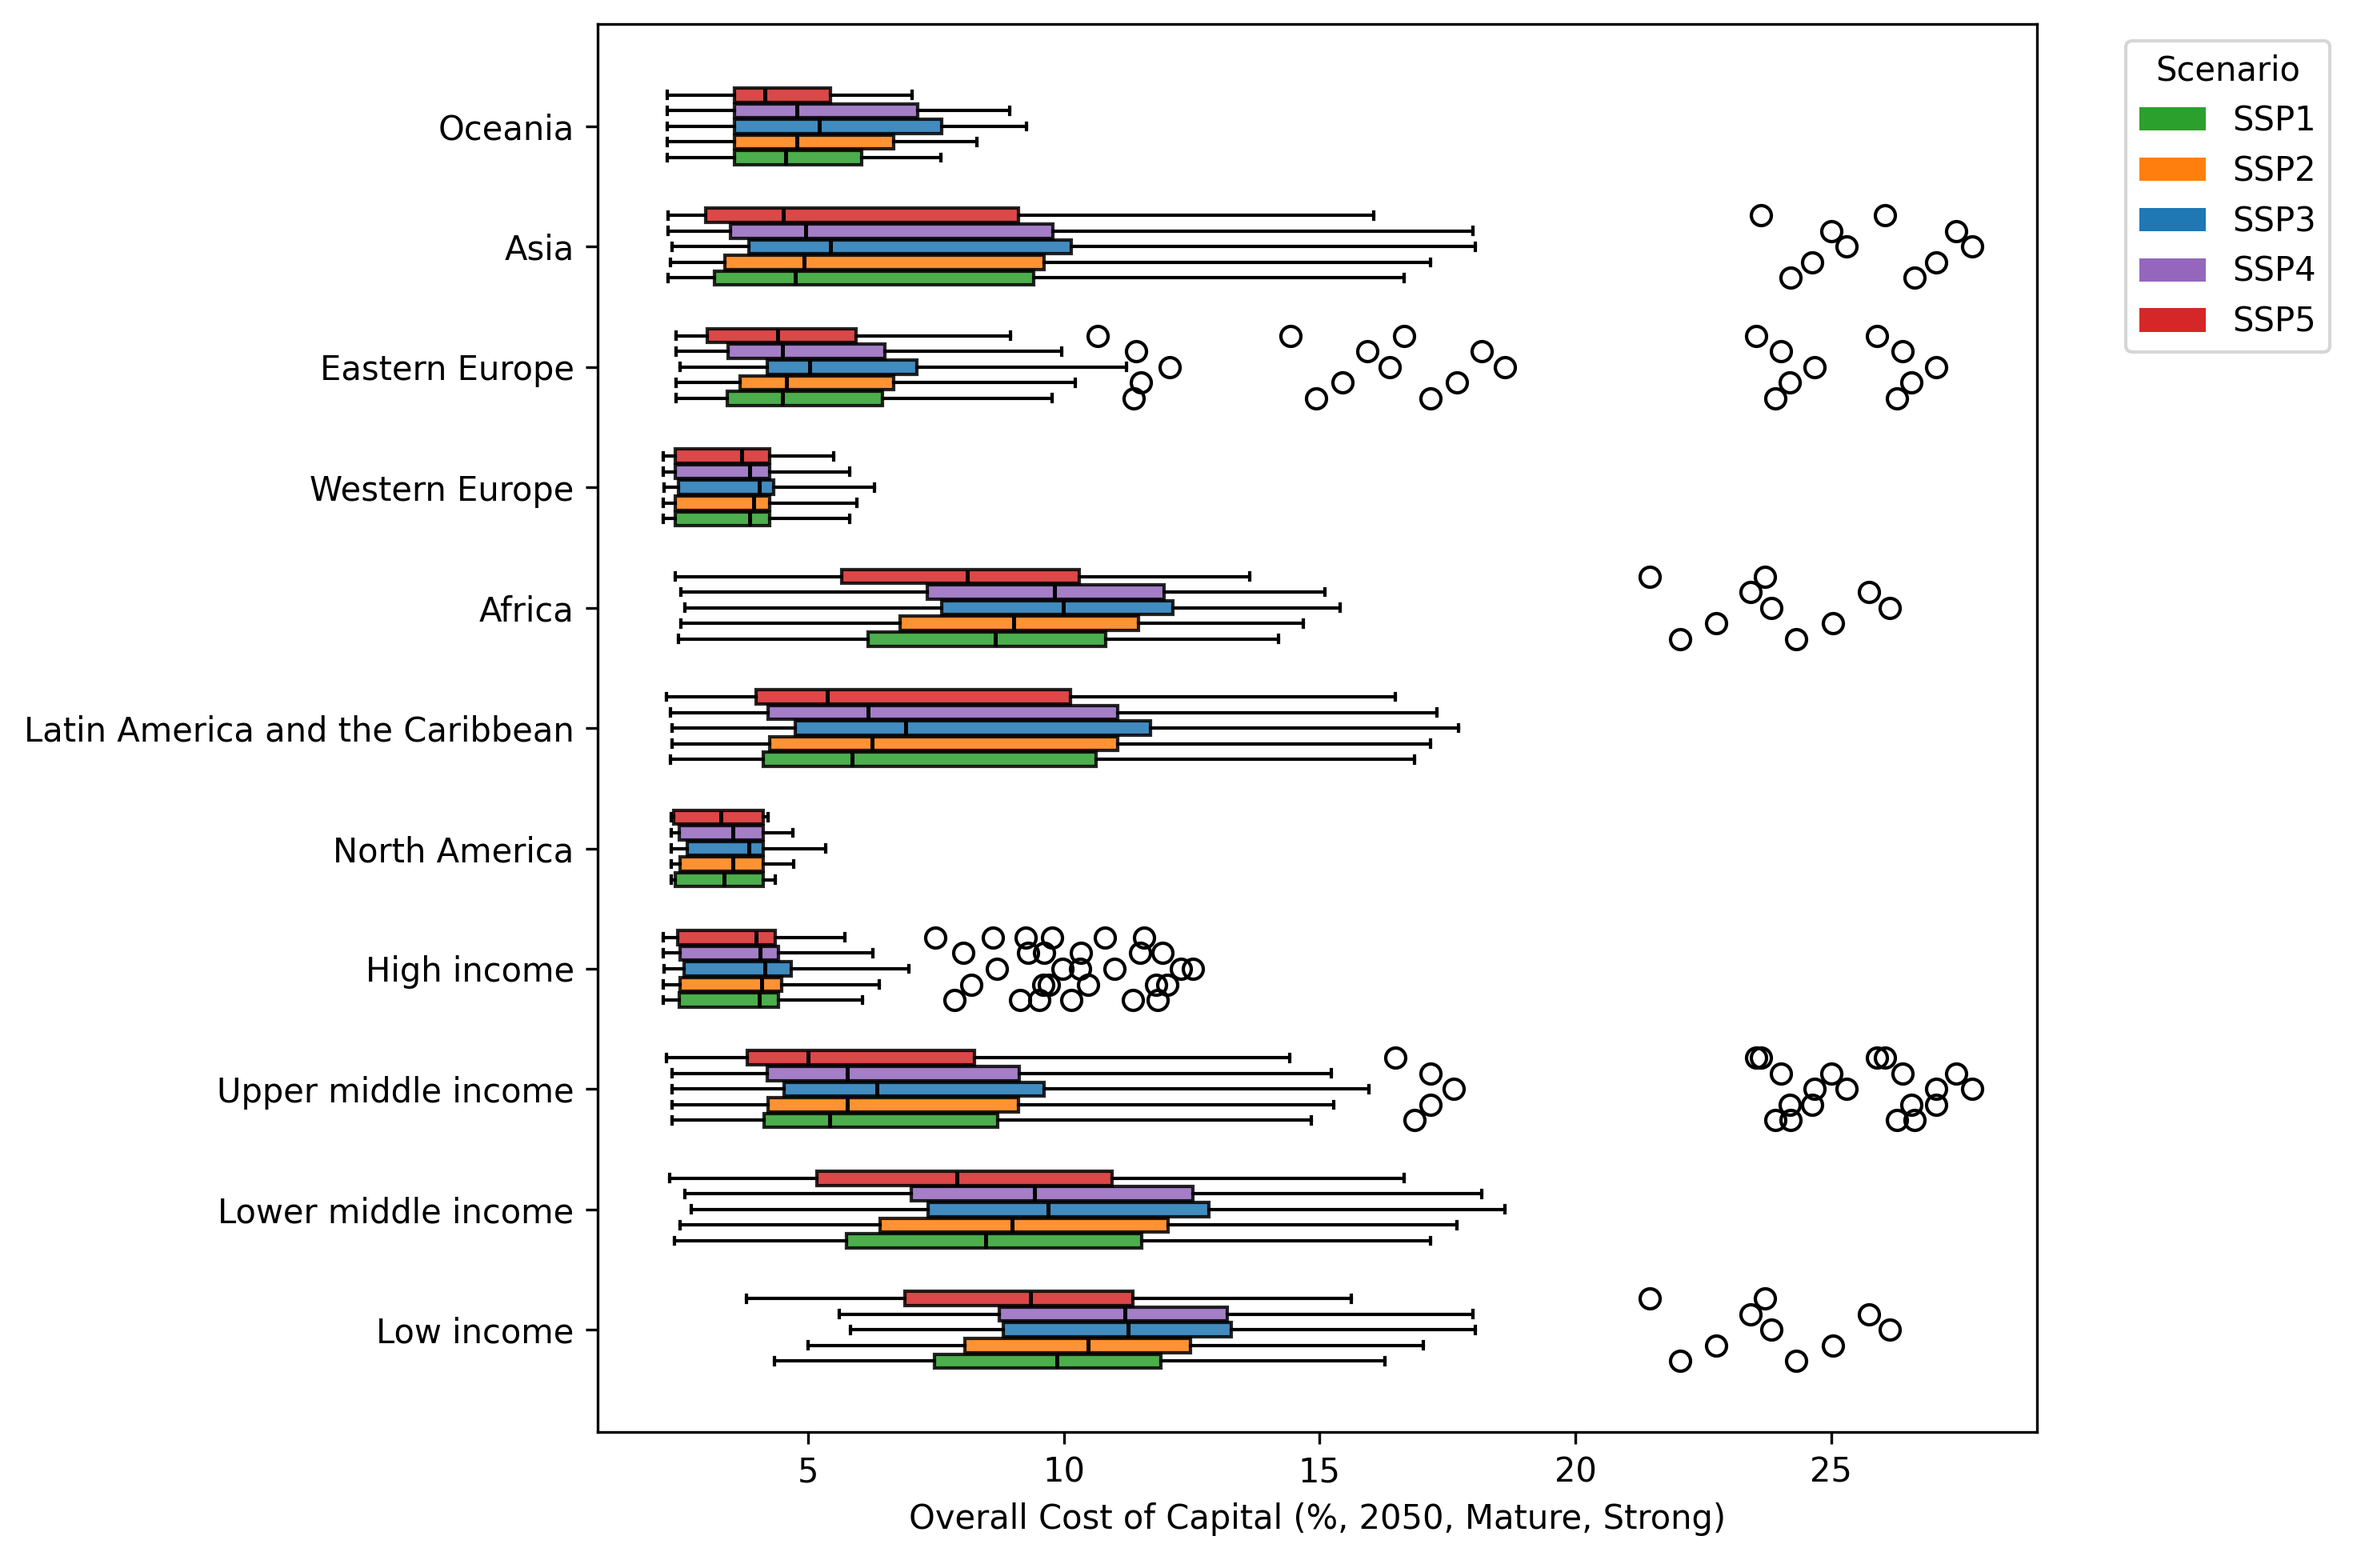
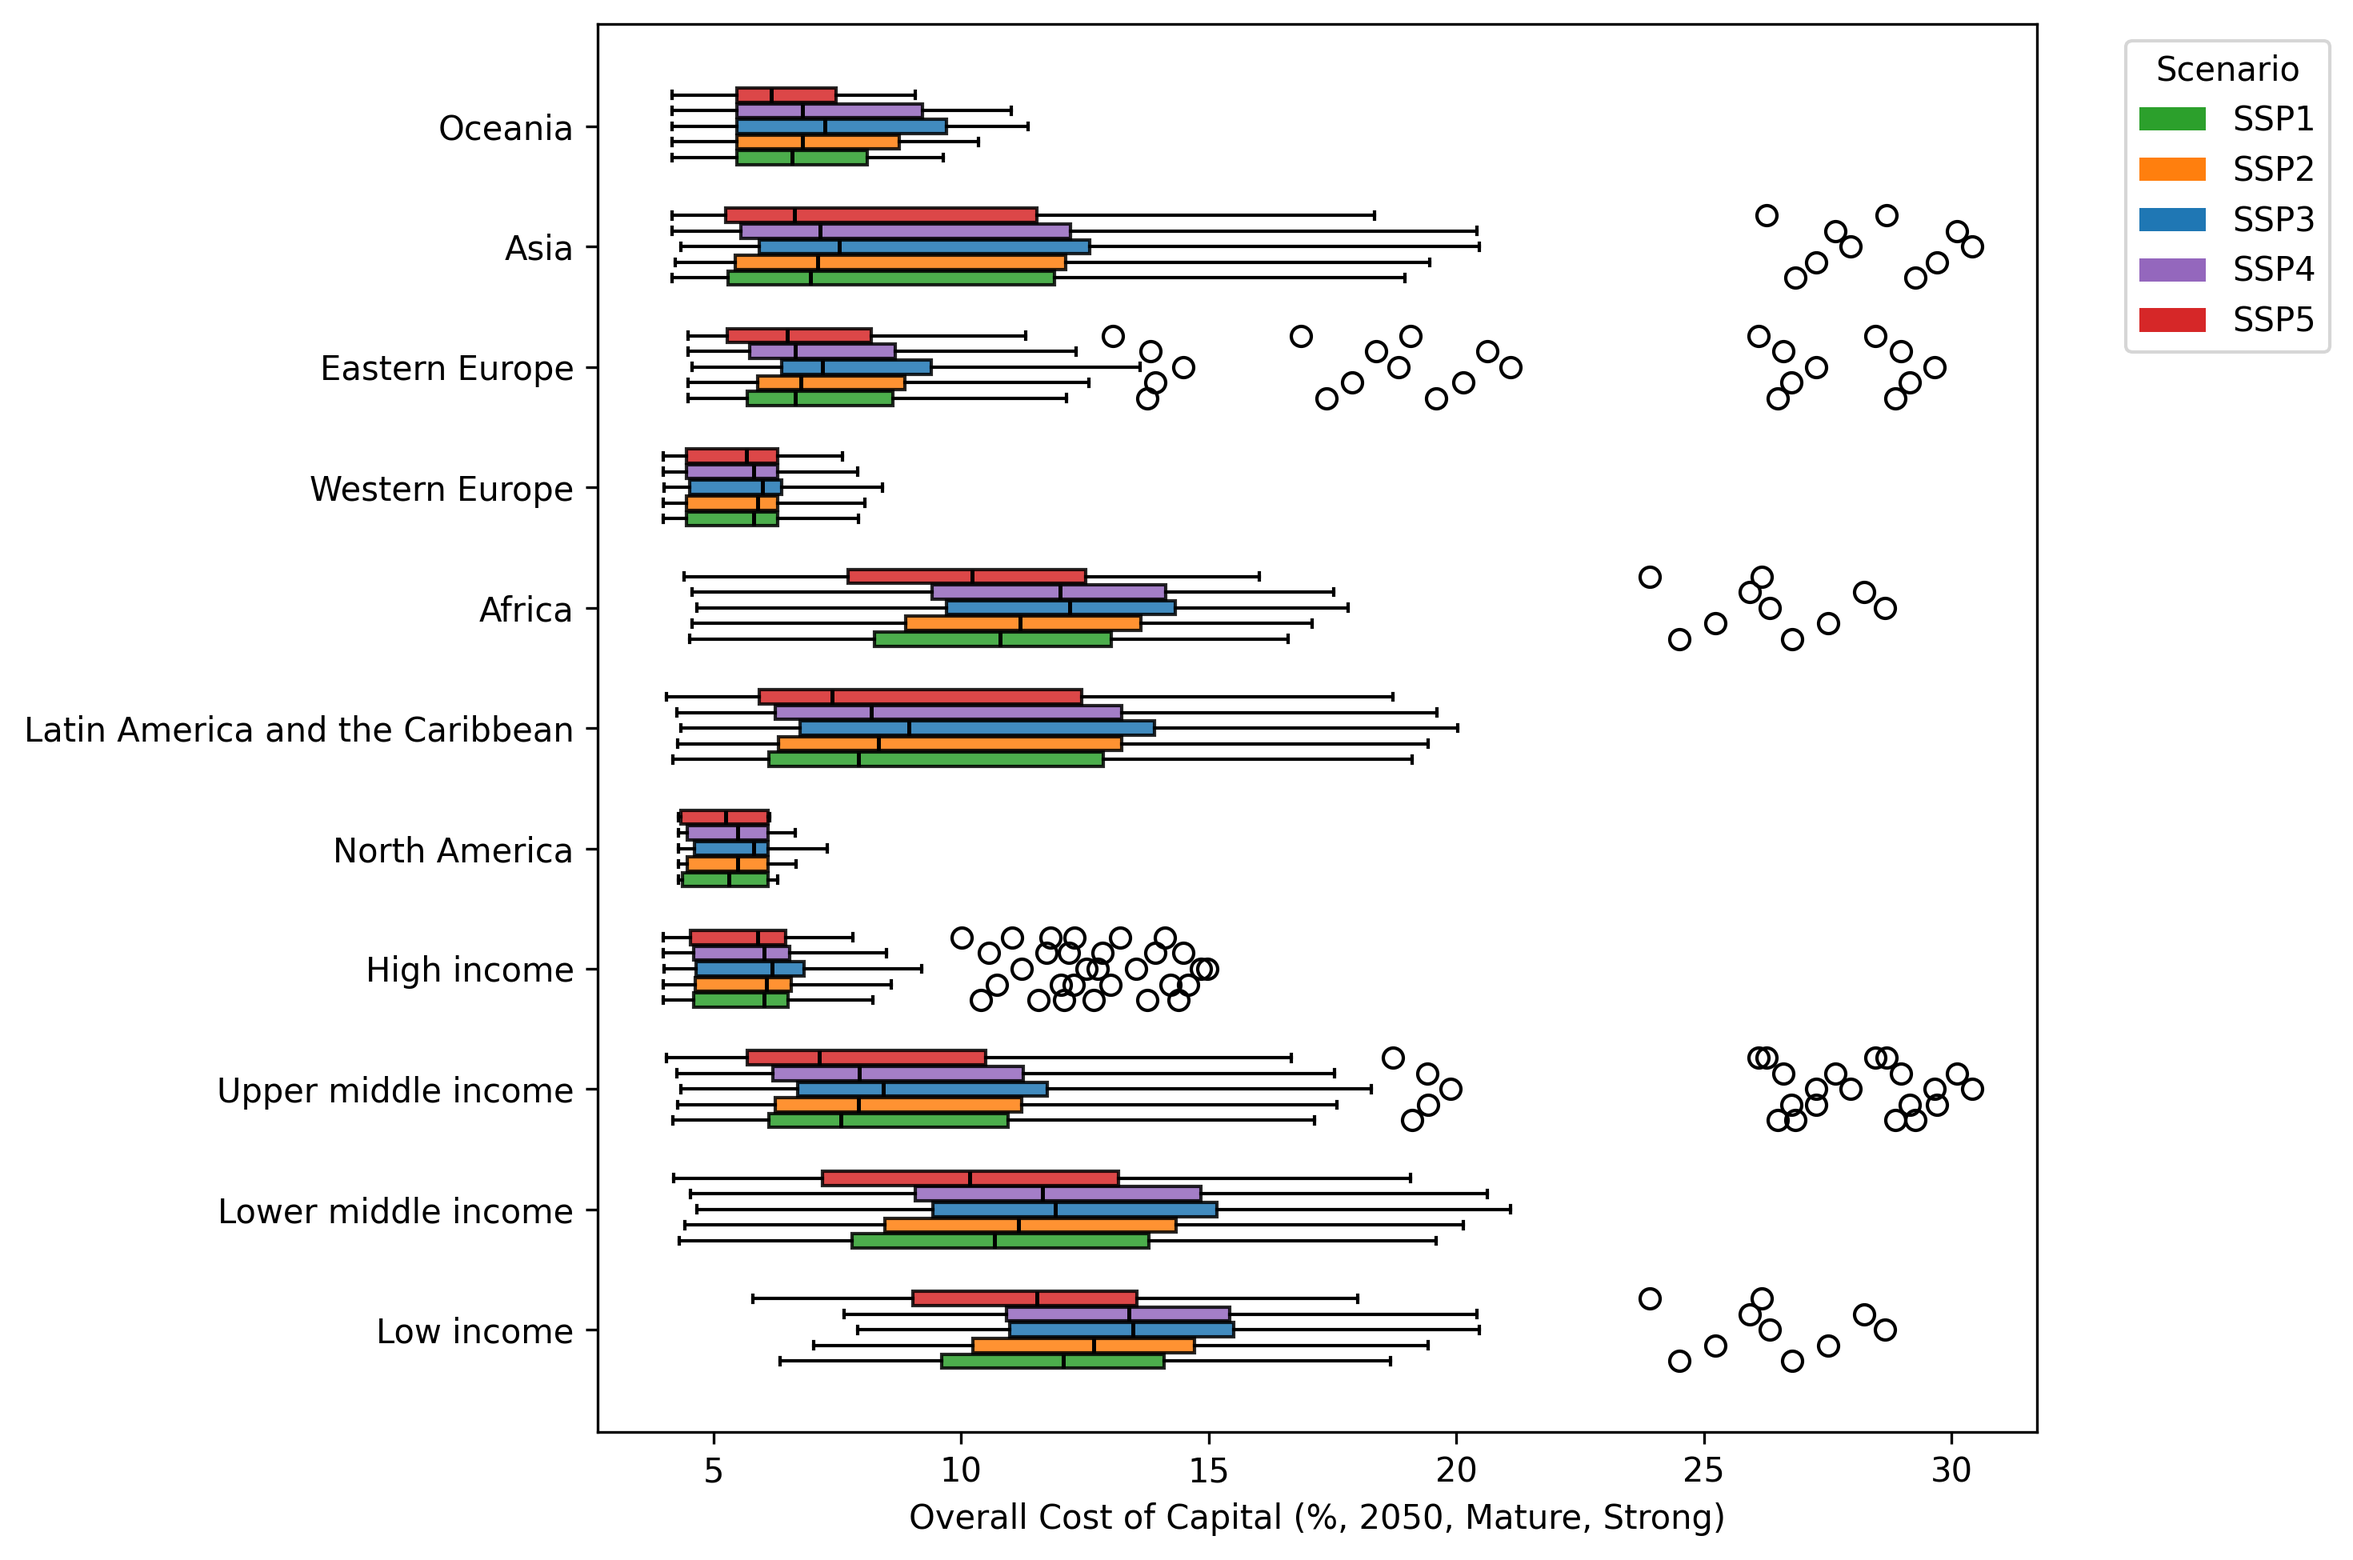
index

diff --git a/streamlit_app.py b/streamlit_app.py
@@ -605,7 +605,7 @@ policy = st.selectbox(
             index=0, placeholder="Select Policy Coherence...", key="Policy Coherence")
 sensitivity = st.selectbox(
             "Sensitivity Scenario", ["Low", "Central", "High"], 
-            index=0, placeholder="Select Low/Central/High Estimates...", key="Sensitivity")
+            index=1, placeholder="Select Low/Central/High Estimates...", key="Sensitivity")
 tab1, tab11, tab2, tab3, tab4, tab5 = st.tabs(["Country-level CoE", "Country-level CoD","Regional Comparisons", "EMDEs", "Advanced Economies", "World Map"])
 if sensitivity == "Low":
     selected_scenario = low_scenario
@@ -650,6 +650,7 @@ with tab4:
 
 with tab5:
     year_choice_map = st.selectbox('Year (for  global heatmaps)', years, index=default_index, key='world_map_year')
+    selected_scenario.to_csv("selected_scenario.csv", index=False)
     plot_wacc_world_heatmap(selected_scenario, year_choice_map, technology=technology, figsize=(20, 12), save_path='./PLOTS/wacc_world_heatmap', show=True, vmin=0, vmax=20, policy=policy)
 
 
